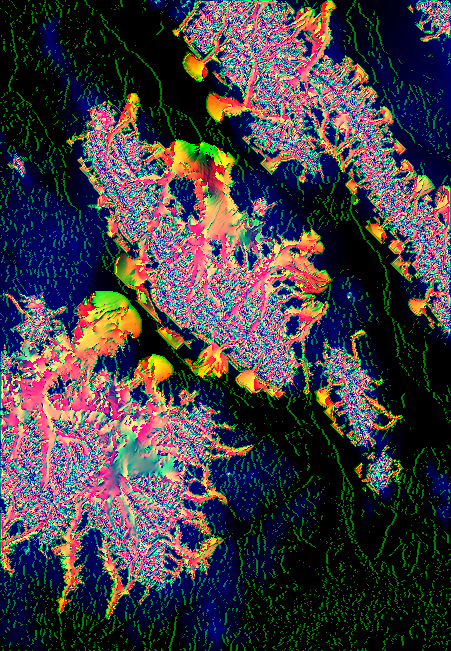
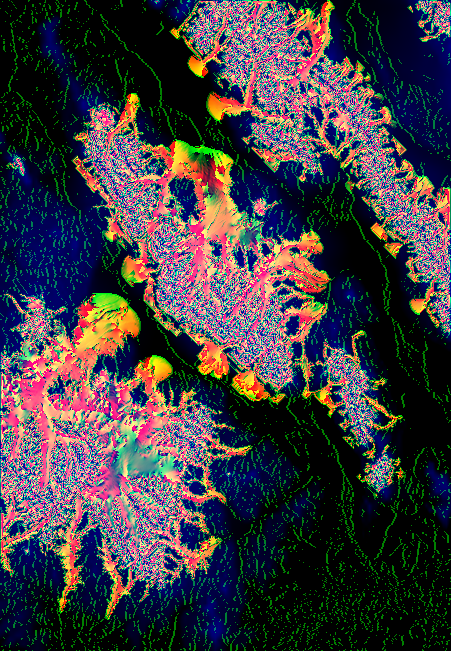
Add the Sawtooth Range; glacier toggle, compass and Ctrl/Option tilt; calibration fixes
- Sawtooth Range at 200 m with its own climate correction fitted at that grid
  (White Clouds held out: 69% overlap), sharing Idaho's PRISM baseline
- Corrections store the PRISM baseline shift they were fitted with, so
  regions that borrow one stay on the same baseline
- Viewer: glaciers on/off (today's terrain), compass, Ctrl/Option+drag tilt
  that also works in Firefox-based browsers, unlisted background region
- Retry NOAA bedrock downloads

diff --git a/web/config.example.js b/web/config.example.js
@@ -1,3 +1,3 @@
 window.MAPBOX_TOKEN = 'pk.your-token-here'
-window.LGM_REGIONS = ['idaho', 'lost_river', 'wind_river']  // regions to show; remove to show all
+window.LGM_REGIONS = ['idaho', 'lost_river', 'wind_river', 'sawtooth']  // regions to show; remove to show all
 window.LGM_BACKGROUND = ['north_america']  // coarse ice drawn around them, not listed

diff --git a/docs/config.js b/docs/config.js
@@ -1,4 +1,4 @@
 window.MAPBOX_TOKEN = ''
 window.LGM_START = 'lost_river'
-window.LGM_REGIONS = ["lost_river", "idaho", "wind_river"]
+window.LGM_REGIONS = ["lost_river", "idaho", "wind_river", "sawtooth"]
 window.LGM_BACKGROUND = ["north_america"]

diff --git a/glaciers/fit.py b/glaciers/fit.py
@@ -16,7 +16,8 @@ from . import model, outlines
 from .regions import correction, correction_path, setup
 
 HELD_OUT = {"idaho": {"Lemhi": (-113.60, -112.80, 44.00, 44.90), "Pioneer": (-114.25, -113.60, 43.50, 43.90)},
-            "wind_river": {"East-side valleys": (-109.45, -108.95, 43.05, 43.50)}}
+            "wind_river": {"East-side valleys": (-109.45, -108.95, 43.05, 43.50)},
+            "sawtooth": {"White Clouds": (-114.75, -114.45, 44.00, 44.20)}}
 RADIUS = 50e3      # control points compare model and mapped ice within about this distance (m)
 GAIN = 1.0         # K of correction per e-fold of area mismatch
 MAX_STEP = 1.0     # K per iteration
@@ -24,7 +25,13 @@ LIMITS = (-4.0, 4.0)  # about the gap between climate models and glacier-based c
 SMOOTH = 0.5      # each iteration, blend half of the field with a smoothed copy (1 control point)
 MIN_ICE = 100.0   # km² of weighted ice before a control point responds; smaller patches are below the grid
 EDGE = 60e3       # ice within this distance of an inflow edge comes from outside and is not fitted (m)
-FIT_KM = {"idaho": 1.0, "wind_river": 0.5}  # fitting grid (km); the correction itself is resolution-independent
+FIT_KM = {"idaho": 1.0, "wind_river": 0.5, "sawtooth": 0.2}  # fitting grid (km); the correction itself is resolution-independent
+
+
+def save(region, lons, lats, dT, shift):
+    """The correction, plus the PRISM baseline shift it was fitted with (reused by regions that borrow it)."""
+    extra = {} if shift is None else {"shift": shift}
+    np.savez(correction_path(region), lons=lons, lats=lats, dT=dT, **extra)
 
 
 def box(lon, lat, b):
@@ -63,7 +70,7 @@ def main():
     T0, P, z_ref, ocean = r["climate"]
     H = None
     for it in range(a.iterations):
-        np.savez(correction_path(a.region), lons=lons, lats=lats, dT=dT)  # correction() reads it back
+        save(a.region, lons, lats, dT, r["prism_shift"])  # correction() reads it back
         climate = T0 + correction(a.region, lon, lat), P, z_ref, ocean
         t0 = time.time()
         H, _ = model.simulate(r["bed0"], climate, dx, 3000 if H is None else 1500, r["dt"], -120.0, r["H_edge"], H)
@@ -88,7 +95,7 @@ def main():
         print(", ".join(line), flush=True)
         if np.abs(step).max() < 0.2:
             break
-    np.savez(correction_path(a.region), lons=lons, lats=lats, dT=dT)
+    save(a.region, lons, lats, dT, r["prism_shift"])
     print(f"wrote {correction_path(a.region)}; now run: python -m glaciers {a.region}")
 
 

diff --git a/glaciers/regions.py b/glaciers/regions.py
@@ -22,9 +22,13 @@ REGIONS = {
     "idaho":         (-114.2, 45.6, 320, 440, 0.5, 3000, 10, 0),
     "lost_river":    (-113.65, 44.05, 45, 65, 0.2, 3000, 5, 0),
     "wind_river":    (-109.55, 42.95, 75, 95, 0.2, 3000, 5, 0),
+    "sawtooth":      (-114.95, 44.10, 40, 50, 0.2, 3000, 5, 0),
 }
 # Regions that reuse another region's fitted correction (it is stored in lon/lat).
 CORRECTION_FROM = {"lost_river": "idaho"}
+# Regions whose PRISM baseline shift comes from another region's fit, so their own correction is fitted
+# on the same present-day baseline (a small mountain box would otherwise get a different shift).
+BASELINE_FROM = {"lost_river": "idaho", "sawtooth": "idaho"}
 # Nested regions take ice flowing in across one edge from a coarser run (Cordilleran lobes entering Idaho
 # from British Columbia). Other edges stay ice-free: the coarse run over-glaciates the lowlands there.
 PARENT = {"idaho": ("north_america", "north")}
@@ -55,7 +59,12 @@ def setup(region, km=None, dT=None, use_correction=True):
     y = np.arange(-hh * 1000, hh * 1000 + 1, dx)
     lon, lat = proj.inverse(*np.meshgrid(x, y))
     bed0 = dem.load_bed(proj, x, y, dx)
-    T, P, z_ref, ocean = dem.load_climate(proj, x, y, bed0 if dx < 2000 else None)  # PRISM for fine grids
+    # PRISM for fine grids, with the same baseline shift the climate correction (if any) was fitted with:
+    # a small mountain box would otherwise get its own, different shift.
+    path = correction_path(BASELINE_FROM.get(region, CORRECTION_FROM.get(region, region)))
+    stored = np.load(path) if path.exists() else {}
+    shift = stored["shift"] if "shift" in stored else None
+    T, P, z_ref, ocean, shift = dem.load_climate(proj, x, y, bed0 if dx < 2000 else None, shift)
     lgm_dT, ratio = pmip.sample(lon, lat)
     fitted = correction(region, lon, lat) if use_correction else 0.0
     climate = T + lgm_dT + dT + fitted, P * ratio, z_ref, ocean  # present climate + LGM anomalies
@@ -68,4 +77,4 @@ def setup(region, km=None, dT=None, use_correction=True):
         if side == "north":
             H_edge[:-1] = 0  # last row is the northern edge
     return dict(proj=proj, x=x, y=y, dx=dx, lon=lon, lat=lat, bed0=bed0, climate=climate, H_edge=H_edge,
-                years=years, dt=dt, dT=dT, corrected=bool(np.any(fitted)))
+                years=years, dt=dt, dT=dT, corrected=bool(np.any(fitted)), prism_shift=shift)

diff --git a/glaciers/dem.py b/glaciers/dem.py
@@ -183,11 +183,13 @@ def _prism(rows, cols):
     return d["T"], d["P"]
 
 
-def load_climate(proj, x, y, bed=None):
+def load_climate(proj, x, y, bed=None, shift=None):
     """Present-day monthly temperature (°C), precipitation (mm), their reference elevation, and the ocean mask.
 
     With `bed` (the 30" bedrock on this grid), PRISM's 800 m normals replace WorldClim inside the contiguous US.
     They resolve mountain snowfall that WorldClim's 18 km cells smear into the valleys.
+    Also returns the monthly PRISM-minus-WorldClim shift that was removed (None without PRISM); pass `shift`
+    to reuse one, e.g. the shift a borrowed climate correction was fitted with.
     """
     lon, lat = proj.inverse(*np.meshgrid(x, y))
     rc = [(90 - lat) * 6 - 0.5, (lon + 180) * 6 - 0.5]
@@ -208,8 +210,9 @@ def load_climate(proj, x, y, bed=None):
             # PRISM is fitted to an 800 m DEM; the 30" bedrock matches it on land.
             # Shift its 1991-2020 temperatures to WorldClim's 1970-2000 baseline, month by month (regional
             # sea-level means), so the LGM anomalies and calibrations apply unchanged.
-            shift = ((pt + LAPSE * bed) - (T + LAPSE * z_ref))[:, ok].mean(1)
-            print(f"PRISM minus WorldClim baseline: {shift.mean():+.2f} K (removed)")
+            if shift is None:
+                shift = ((pt + LAPSE * bed) - (T + LAPSE * z_ref))[:, ok].mean(1)
+            print(f"PRISM minus WorldClim baseline: {np.mean(shift):+.2f} K (removed)")
             T = np.where(ok, pt - shift[:, None, None], T)
             P, z_ref = np.where(ok, pp, P), np.where(ok, bed, z_ref)
-    return T, P, z_ref, ocean
+    return T, P, z_ref, ocean, shift

diff --git a/glaciers/demo.py b/glaciers/demo.py
@@ -16,7 +16,7 @@ DOCS = WEB.parent / "docs"
 
 
 def main():
-    names = sys.argv[1:] or ["lost_river", "idaho", "wind_river"]
+    names = sys.argv[1:] or ["lost_river", "idaho", "wind_river", "sawtooth"]
     background = ["north_america"]  # coarse ice around the regions, so ice doesn't stop at their box edges
     metas = [json.loads((WEB / "data" / f"{r}.json").read_text()) for r in names + background]
     data = DOCS / "data"

diff --git a/README.md b/README.md
@@ -3,7 +3,7 @@
 Computes where glaciers and ice sheets should have been at the Last Glacial Maximum (~21,000 years ago)
 and shows them in 3D on satellite imagery.
 
-**Live demo:** https://bidart64.github.io/lgm-glaciers/ (Idaho, the Lost River Range and the Wind River Range;
+**Live demo:** https://bidart64.github.io/lgm-glaciers/ (Idaho, the Lost River, Sawtooth and Wind River ranges;
 no account needed)
 
 ## Run
@@ -24,7 +24,9 @@ python -m glaciers north_america                # ~4 min: supplies the Cordiller
 python -m glaciers.fit idaho                    # ~25 min: fits Idaho's climate correction to the mapped ice
 python -m glaciers idaho                        # ~17 min: 500 m grid
 python -m glaciers lost_river                   # ~3 min: 200 m grid, uses Idaho's correction
-python -m glaciers.demo lost_river idaho        # standalone demo in docs/ (free map sources, GitHub Pages)
+python -m glaciers.fit sawtooth                 # ~35 min: Sawtooth Range correction at 200 m (Idaho's baseline)
+python -m glaciers sawtooth                     # ~5 min: 200 m grid
+python -m glaciers.demo                         # standalone demo in docs/ (free map sources, GitHub Pages)
 ```
 
 Wind River Range, Wyoming (no parent run needed):
